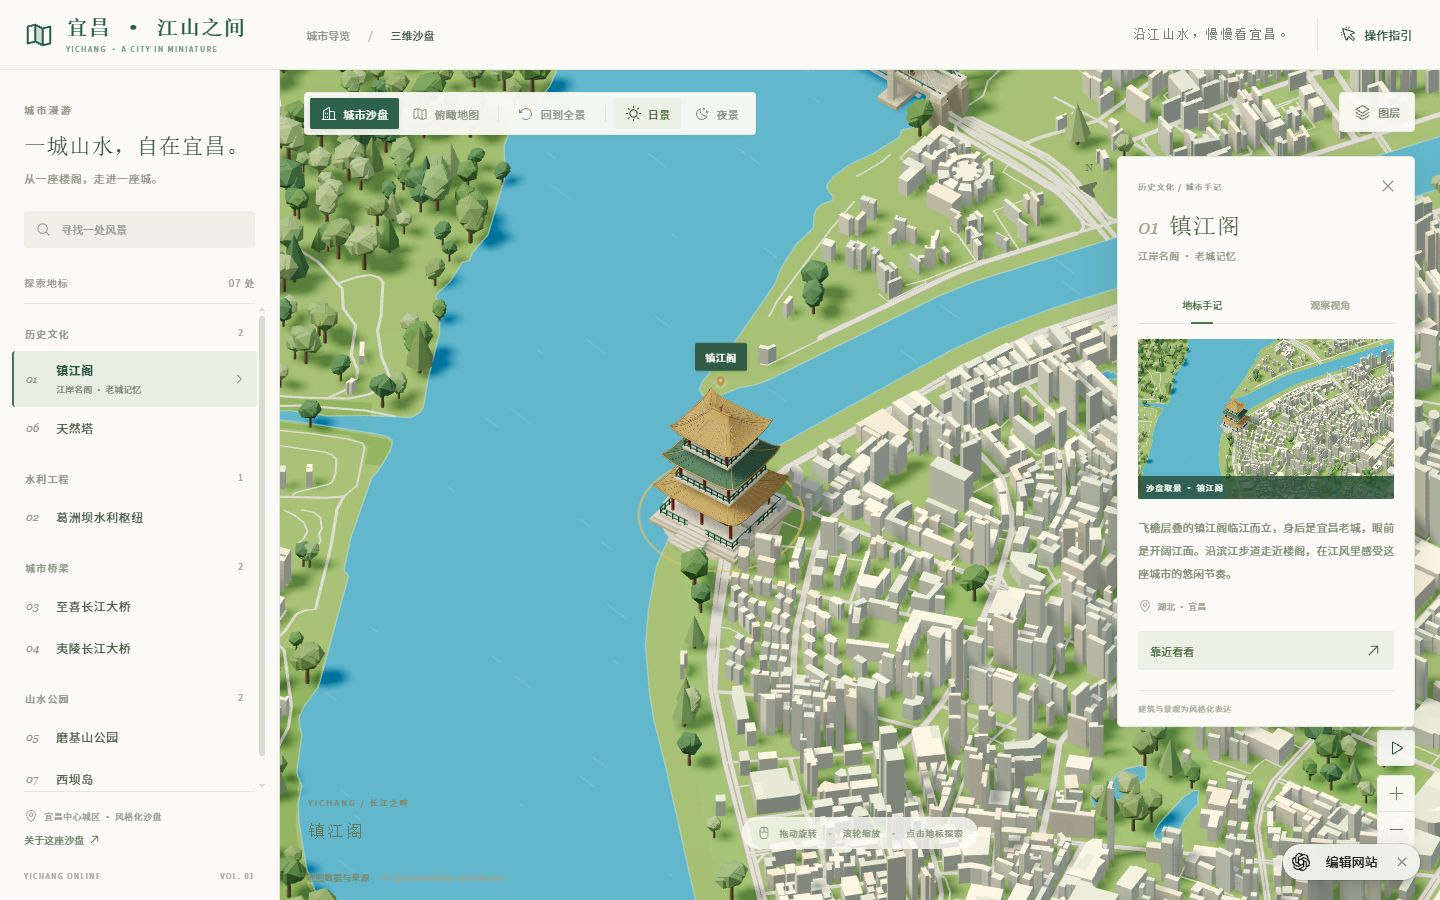
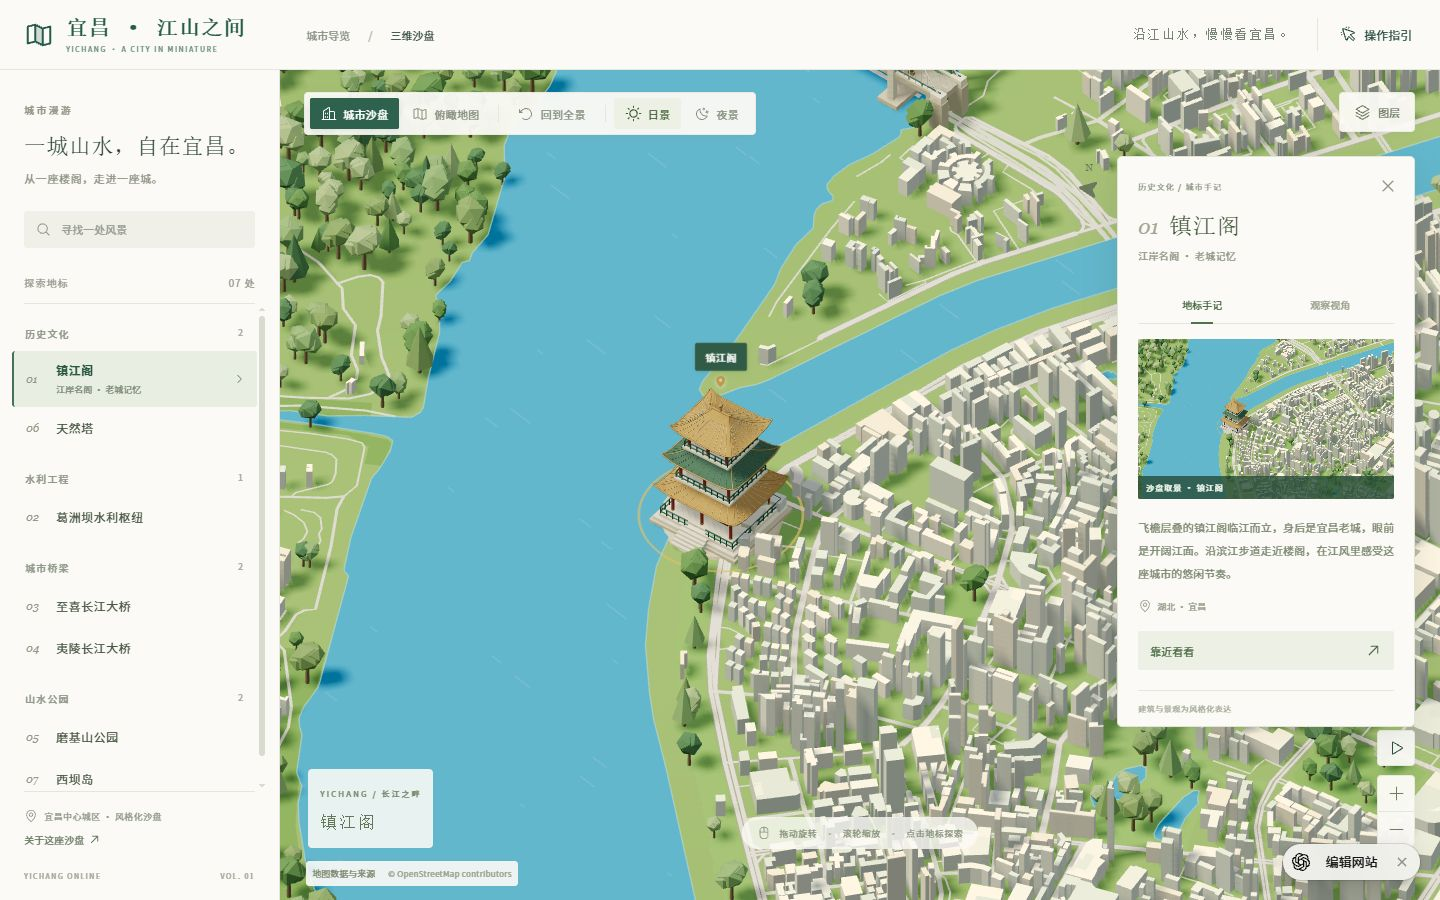
Update Site source

Changed region(s): [[0.1875, 0.84, 0.375, 0.9956], [0.8438, 0.3733, 0.9688, 0.5289], [0.7812, 0.3733, 0.8125, 0.4667]]

diff --git a/design-qa.md b/design-qa.md
@@ -1,0 +1,62 @@
+# 宜昌 · 江山之间 — Design QA
+
+## Result
+
+**Passed.** No remaining P0, P1, or P2 visual or interaction blocker was observed in the checked states. Reviewed on 2026-11-08 against the user-selected Douyin city-sandbox reference. This is an adaptation to Yichang geography, not a pixel-identical copy of the Nanjing screen.
+
+Live Site: https://yichang-miniature-city.gaoronghai.chatgpt.site
+
+Last functional source revision checked: `c0e894aa2e867b3c845c74e882807865085c308f`. Subsequent documentation and screenshot commits do not alter the checked application assets.
+
+## Reference and visual criteria
+
+Reference: https://www.douyin.com/video/7704694490355608165 (闻远). Actual reference frames are stored in `docs/reference/01-reference-city-overview.png` and `02-reference-sandbox-base.png`. The comparison uses the webpage within the video, excluding the outer video title, browser chrome, and subtitles.
+
+| Criterion | Observed result |
+| --- | --- |
+| Physical miniature | Finite square model, visibly thick layered earth section, soft contact shadow and slanted orthographic view. |
+| Color | Cream interface; forest-green controls; grass-green ground; clear blue water; bright off-white buildings. The initially washed-out render was corrected. |
+| City geometry | Real clipped river, road and building footprints give a recognizably river-centered Yichang layout. Styled landmarks are the visual accents. |
+| Typography and hierarchy | Chinese serif titles, restrained sans-serif controls, clear directory groups and selected state. No missing Chinese glyphs observed. |
+| Detail view | The selected landmark remains clear to the left of the story panel. Scene postcards are captured from the actual canvas and update with the day/night theme. |
+| Labels | Desktop labels avoid overlaps. On a small screen, labels requiring more than one row of displacement are hidden; all seven landmarks remain in the directory. Selected visible landmarks retain priority. |
+| Readability on scenery | Bottom captions and data credits have translucent paper-colored backing, including in close views over blue water. |
+| Responsive layout | Desktop directory becomes a mobile drawer; details use a bottom sheet; icon-only mobile controls have accessible names. |
+
+## Rendered checks
+
+Actual WebGL rendering was inspected in the connected Chrome browser after private deployment, at the default desktop viewport (1920 × 920), 1440 × 900, and a temporary 390 × 844 viewport. Temporary viewport overrides were reset before handoff. Mobile-width checks are browser layout checks, not a physical-device performance benchmark.
+
+The managed internal preview browser reported `GL_RENDERER = Disabled` and could not create a WebGL context. No application fallback or browser security change was introduced to compensate. The deployed Site rendered successfully in the connected browser, with an empty application error/warning log during final inspection.
+
+### Interactions observed
+
+- Initial data loading completes and reveals the rendered model.
+- Directory selection smoothly focuses 镇江阁、天然塔、夷陵长江大桥 and 至喜长江大桥, and opens the matching description and real scene postcard.
+- Search for 天然 narrows the directory to 天然塔; clearing restores all landmarks.
+- Closing details and returning to the full scene work.
+- Top view and miniature perspective switch correctly.
+- Day/night switching changes the scene and interface; the open postcard updates to the new theme.
+- Building visibility removes the building layer; the label toggle changes its container to opacity 0 and visibility hidden; restoring both works.
+- Automatic orbit toggles to a pause state; manual canvas dragging changes the compass heading.
+- Mobile navigation opens, selection closes the drawer, and the detail sheet remains usable.
+- The closed mobile directory receives `aria-hidden`, and the mobile viewport has no horizontal document overflow.
+- Guide modal opens with the stated controls and touch instructions.
+
+### Build and geometry checks
+
+Production builds passed after each functional revision. Final functional output is `index-ByphOWSb.js` and `index-CIwZ5mIP.css`. `git diff --check` passed. The scene module parses; landmark geometry, ground placement, endpoint length/orientation and theme updates were checked by the implementation agents. Rendering uses merged building/road meshes and instanced trees; no performance figure is asserted without a benchmark.
+
+## Evidence
+
+- `docs/qa/final-desktop.png`: final daytime overview.
+- `docs/qa/final-detail.png`: 镇江阁 close view.
+- `docs/qa/final-bridge.png`: suspension-bridge close view and readable bottom captions.
+- `docs/qa/final-night.png`: nighttime landmark view (before the bottom-caption backing adjustment; 3D scene is unchanged).
+- `docs/qa/final-mobile.png`: final 390 × 844 overview, short local labels and readable footer.
+
+The first-render and pre-fix mobile images are retained with explicit initial/before names for review history. A separate read-only visual review also found no remaining P0/P1/P2 blocker in the final desktop, close-up and corrected mobile images.
+
+## Scope and factual limits
+
+The data covers approximately 12.44 × 12.25 km of central Yichang. It is not the entire municipal administrative area. Buildings are selected real footprints with mixed-source heights and 3.8× display exaggeration; landmark dimensions, trees and the small hill relief are stylized. No DEM or measured landmark survey is included. The presentation is suitable for a miniature city explorer, not survey or engineering use. Full data credits and provenance remain available from the Site.
